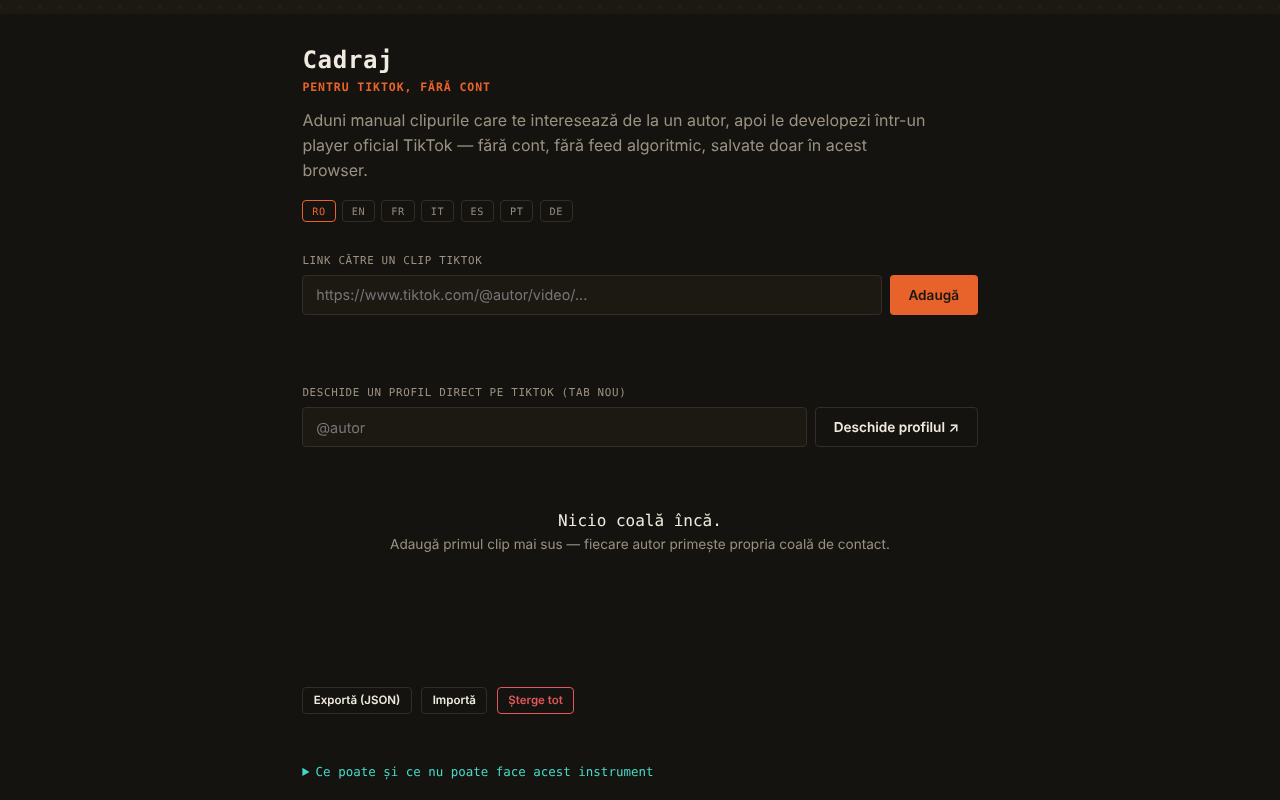
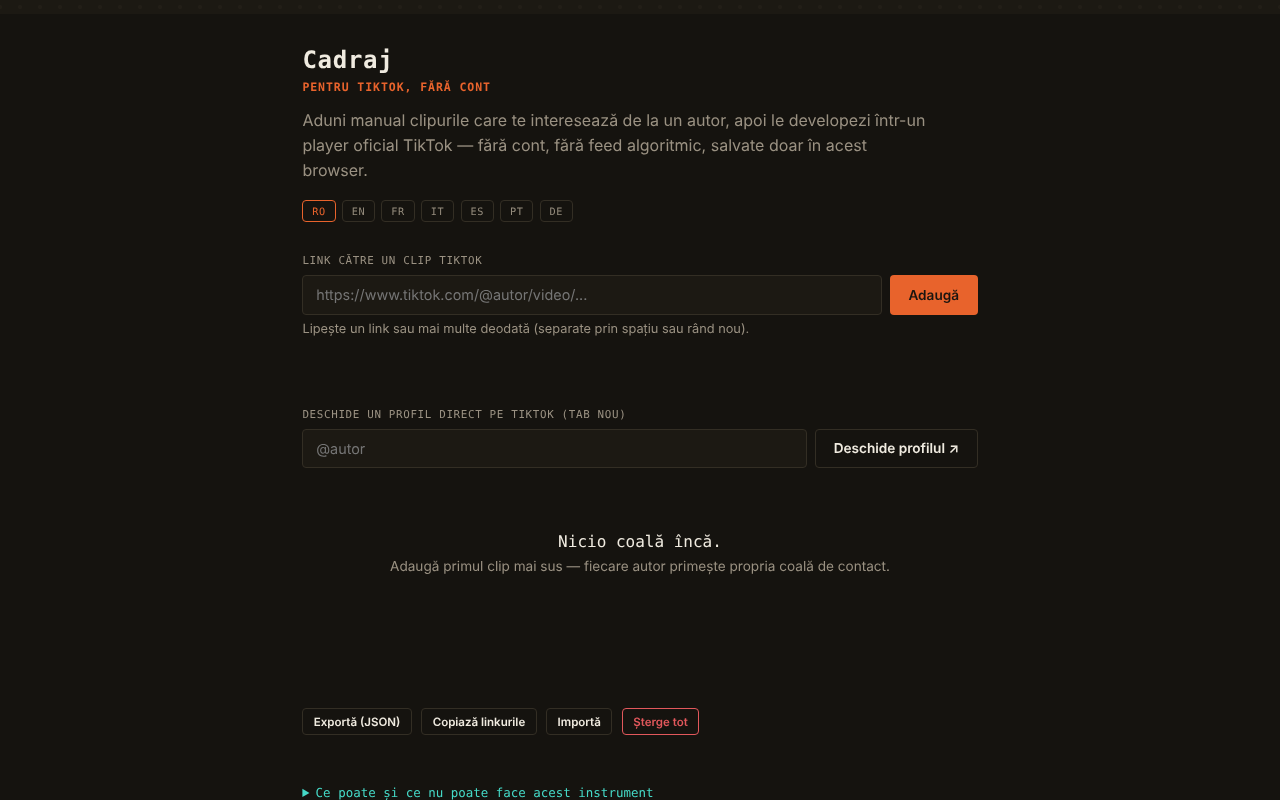
Runda 6 (11 octombrie 2026): reparații și îmbunătățiri
Claude-Session: https://claude.ai/code/session_01D2sCEb3hy3nutYexhUfQFs

diff --git a/index.html b/index.html
@@ -4,7 +4,7 @@
 <meta charset="UTF-8">
 <meta name="viewport" content="width=device-width, initial-scale=1">
 <meta name="color-scheme" content="dark">
-<meta http-equiv="Content-Security-Policy" content="default-src 'none'; script-src 'unsafe-inline'; style-src 'unsafe-inline'; img-src data: blob:; frame-src https://www.tiktok.com; connect-src 'none'; base-uri 'none'; form-action 'none'">
+<meta http-equiv="Content-Security-Policy" content="default-src 'none'; script-src 'sha256-rRifz6fCVTKQgyFeyKlWlPCwGrJVL4miG7RWZcNye4Y='; style-src 'unsafe-inline'; img-src data: blob:; frame-src https://www.tiktok.com; connect-src 'none'; base-uri 'none'; form-action 'none'">
 <title>Cadraj — pentru TikTok, fără cont</title>
 <style>
 :root{
@@ -54,6 +54,8 @@ a{ color:var(--cool); }
 .hint{ margin-top:.5rem; font-size:.8rem; min-height:1.2em; }
 .hint--error{ color:var(--danger); }
 .hint--success{ color:var(--cool); }
+.hint--tip{ color:var(--text-dim); min-height:0; margin-top:.4rem; }
+@media print{ html,body{ background:#fff; color:#000; } .panel,.tools-panel,.info-panel,.lightbox,.lang-switch,#lang-switch,.frame__remove,.collection__actions{ display:none!important; } .collection__grid{ display:block; } .frame-card{ break-inside:avoid; margin:.2rem 0; } .frame__play-area::after{ content:""; } }
 
 .btn{
   font-family:var(--sans); font-size:.85rem; font-weight:600; padding:.65rem 1.1rem;
@@ -174,6 +176,7 @@ footer.foot{ text-align:center; color:var(--text-faint); font-size:.72rem; font-
       <input type="text" id="url-input" data-i18n-placeholder="addPlaceholder" placeholder="https://www.tiktok.com/@autor/video/...">
       <button type="submit" class="btn btn-primary" data-i18n="addButton">Adaugă</button>
     </div>
+    <p class="hint hint--tip" id="add-tip" data-i18n="addTip">Lipește un link sau mai multe deodată (separate prin spațiu sau rând nou).</p>
     <p class="hint" id="add-hint" role="status" aria-live="polite"></p>
   </form>
 </section>
@@ -197,6 +200,7 @@ footer.foot{ text-align:center; color:var(--text-faint); font-size:.72rem; font-
 
 <section class="panel tools-panel">
   <button type="button" class="btn btn-secondary btn-sm" id="export-btn" data-i18n="exportButton">Exportă (JSON)</button>
+  <button type="button" class="btn btn-secondary btn-sm" id="copy-btn" data-i18n="copyButton">Copiază linkurile</button>
   <button type="button" class="btn btn-secondary btn-sm" id="import-btn" data-i18n="importButton">Importă</button>
   <input type="file" id="import-file" accept="application/json" hidden>
   <button type="button" class="btn btn-danger btn-sm" id="clear-btn" data-i18n="clearButton">Șterge tot</button>
@@ -260,6 +264,12 @@ ro: {
   hintInvalid: "Nu recunosc linkul. Are nevoie de formatul .../@autor/video/ID.",
   hintDuplicate: "Clipul e deja în colecția lui @{user}.",
   hintAdded: "Cadru adăugat la coala lui @{user}.",
+  hintBulk: "{a} clipuri adăugate, {d} erau deja în colecție, {i} linkuri ignorate (nerecunoscute sau scurtate).",
+  copyButton: "Copiază linkurile",
+  copyDone: "{n} linkuri copiate în clipboard.",
+  copyEmpty: "Nu ai încă niciun clip de copiat.",
+  copyFail: "Copierea a eșuat. Folosește „Exportă (JSON)”.",
+  addTip: "Lipește un link sau mai multe deodată (separate prin spațiu sau rând nou).",
   frameCountOne: "cadru",
   frameCountOther: "cadre",
   profileOpenButton: "Profil ↗",
@@ -310,6 +320,12 @@ en: {
   hintInvalid: "I don't recognise that link. It needs the .../@author/video/ID format.",
   hintDuplicate: "That clip is already in @{user}'s collection.",
   hintAdded: "Frame added to @{user}'s contact sheet.",
+  hintBulk: "{a} clips added, {d} were already in the collection, {i} links ignored (unrecognized or shortened).",
+  copyButton: "Copy links",
+  copyDone: "{n} links copied to the clipboard.",
+  copyEmpty: "There are no clips to copy yet.",
+  copyFail: "Copy failed. Use \"Export (JSON)\" instead.",
+  addTip: "Paste one link or several at once (separated by spaces or new lines).",
   frameCountOne: "frame",
   frameCountOther: "frames",
   profileOpenButton: "Profile ↗",
@@ -360,6 +376,12 @@ fr: {
   hintInvalid: "Je ne reconnais pas ce lien. Il doit avoir le format .../@auteur/video/ID.",
   hintDuplicate: "Ce clip est déjà dans la collection de @{user}.",
   hintAdded: "Image ajoutée à la planche contact de @{user}.",
+  hintBulk: "{a} clips ajoutés, {d} étaient déjà dans la collection, {i} liens ignorés (non reconnus ou raccourcis).",
+  copyButton: "Copier les liens",
+  copyDone: "{n} liens copiés dans le presse-papiers.",
+  copyEmpty: "Aucun clip à copier pour l'instant.",
+  copyFail: "Échec de la copie. Utilisez « Exporter (JSON) ».",
+  addTip: "Collez un lien ou plusieurs à la fois (séparés par des espaces ou des retours à la ligne).",
   frameCountOne: "image",
   frameCountOther: "images",
   profileOpenButton: "Profil ↗",
@@ -410,6 +432,12 @@ it: {
   hintInvalid: "Non riconosco questo link. Deve avere il formato .../@autore/video/ID.",
   hintDuplicate: "Questo clip è già nella collezione di @{user}.",
   hintAdded: "Fotogramma aggiunto al provino di @{user}.",
+  hintBulk: "{a} clip aggiunti, {d} erano già nella raccolta, {i} link ignorati (non riconosciuti o abbreviati).",
+  copyButton: "Copia i link",
+  copyDone: "{n} link copiati negli appunti.",
+  copyEmpty: "Nessuna clip da copiare per ora.",
+  copyFail: "Copia non riuscita. Usa «Esporta (JSON)».",
+  addTip: "Incolla un link o più link insieme (separati da spazi o a capo).",
   frameCountOne: "fotogramma",
   frameCountOther: "fotogrammi",
   profileOpenButton: "Profilo ↗",
@@ -460,6 +488,12 @@ es: {
   hintInvalid: "No reconozco ese enlace. Necesita el formato .../@autor/video/ID.",
   hintDuplicate: "Ese clip ya está en la colección de @{user}.",
   hintAdded: "Fotograma añadido a la hoja de contacto de @{user}.",
+  hintBulk: "{a} clips añadidos, {d} ya estaban en la colección, {i} enlaces ignorados (no reconocidos o acortados).",
+  copyButton: "Copiar enlaces",
+  copyDone: "{n} enlaces copiados al portapapeles.",
+  copyEmpty: "Aún no hay clips que copiar.",
+  copyFail: "Error al copiar. Usa «Exportar (JSON)».",
+  addTip: "Pega un enlace o varios a la vez (separados por espacios o saltos de línea).",
   frameCountOne: "fotograma",
   frameCountOther: "fotogramas",
   profileOpenButton: "Perfil ↗",
@@ -510,6 +544,12 @@ pt: {
   hintInvalid: "Não reconheço esse link. Ele precisa do formato .../@autor/video/ID.",
   hintDuplicate: "Esse clipe já está na coleção de @{user}.",
   hintAdded: "Quadro adicionado à folha de contato de @{user}.",
+  hintBulk: "{a} clipes adicionados, {d} já estavam na coleção, {i} links ignorados (não reconhecidos ou encurtados).",
+  copyButton: "Copiar links",
+  copyDone: "{n} links copiados para a área de transferência.",
+  copyEmpty: "Ainda não há clipes para copiar.",
+  copyFail: "Falha ao copiar. Use «Exportar (JSON)».",
+  addTip: "Cole um link ou vários de uma vez (separados por espaços ou novas linhas).",
   frameCountOne: "quadro",
   frameCountOther: "quadros",
   profileOpenButton: "Perfil ↗",
@@ -560,6 +600,12 @@ de: {
   hintInvalid: "Diesen Link erkenne ich nicht. Er braucht das Format .../@autor/video/ID.",
   hintDuplicate: "Dieser Clip ist schon in der Sammlung von @{user}.",
   hintAdded: "Bild zum Kontaktbogen von @{user} hinzugefügt.",
+  hintBulk: "{a} Clips hinzugefügt, {d} waren bereits in der Sammlung, {i} Links ignoriert (nicht erkannt oder verkürzt).",
+  copyButton: "Links kopieren",
+  copyDone: "{n} Links in die Zwischenablage kopiert.",
+  copyEmpty: "Es gibt noch keine Clips zum Kopieren.",
+  copyFail: "Kopieren fehlgeschlagen. Nutze „Exportieren (JSON)“.",
+  addTip: "Füge einen Link oder mehrere auf einmal ein (durch Leerzeichen oder Zeilenumbrüche getrennt).",
   frameCountOne: "Bild",
   frameCountOther: "Bilder",
   profileOpenButton: "Profil ↗",
@@ -973,8 +1019,22 @@ var addHint = document.getElementById('add-hint');
 function setHint(el, text, kind){ el.textContent = text; el.className = 'hint hint--'+kind; }
 addForm.addEventListener('submit', function(e){
   e.preventDefault();
-  var result = parseInput(urlInput.value);
+  var raw = urlInput.value;
+  var result = parseInput(raw);
   if(result.error === 'empty'){ setHint(addHint, t('hintEmpty'), 'error'); return; }
+  var tokens = raw.split(/[\s,;]+/).filter(Boolean);
+  if(tokens.length > 1){
+    var added = 0, dup = 0, ignored = 0, last = null;
+    tokens.forEach(function(tok){
+      var r = parseInput(tok);
+      if(r.error){ ignored++; return; }
+      if(addVideo(r.username, r.id, r.kind) === 'added'){ added++; last = r; } else { dup++; }
+    });
+    if(added === 0 && dup === 0){ setHint(addHint, t(SHORTLINK_RE.test(raw) ? 'hintShortlink' : 'hintInvalid'), 'error'); return; }
+    setHint(addHint, t('hintBulk', {a: added, d: dup, i: ignored}), added ? 'success' : 'error');
+    if(added){ urlInput.value=''; render(); }
+    return;
+  }
   if(result.error === 'shortlink'){ setHint(addHint, t('hintShortlink'), 'error'); return; }
   if(result.error === 'invalid'){ setHint(addHint, t('hintInvalid'), 'error'); return; }
   var outcome = addVideo(result.username, result.id, result.kind);
@@ -1000,6 +1060,20 @@ document.getElementById('export-btn').addEventListener('click', function(){
   a.href = url; a.download = 'tiktok-fara-cont.json';
   document.body.appendChild(a); a.click(); document.body.removeChild(a);
   setTimeout(function(){ URL.revokeObjectURL(url); }, 4000);
+});
+document.getElementById('copy-btn').addEventListener('click', function(){
+  var lines = [];
+  orderedCollections().forEach(function(c){ c.data.videos.forEach(function(v){
+    lines.push('https://www.tiktok.com/@'+c.username+'/'+(v.kind === 'photo' ? 'photo' : 'video')+'/'+v.id);
+  }); });
+  if(!lines.length){ setHint(addHint, t('copyEmpty'), 'error'); return; }
+  var text = lines.join('\n');
+  function ok(){ setHint(addHint, t('copyDone', {n: lines.length}), 'success'); }
+  function fail(){ setHint(addHint, t('copyFail'), 'error'); }
+  try {
+    if(navigator.clipboard && navigator.clipboard.writeText){ navigator.clipboard.writeText(text).then(ok, fail); return; }
+  } catch(err){ /* fall through */ }
+  fail();
 });
 var importFile = document.getElementById('import-file');
 document.getElementById('import-btn').addEventListener('click', function(){ importFile.click(); });

diff --git a/README.md b/README.md
@@ -14,7 +14,9 @@ Cadraj este o aplicație dintr-un singur fișier HTML în care adaugi manual lin
 
 ## Funcții
 
-- Adăugare clip după link (`https://www.tiktok.com/@autor/video/...`), cu mesaj de stare.
+- Adăugare clip după link (`https://www.tiktok.com/@autor/video/...`), cu mesaj de stare; poți lipi mai multe linkuri deodată (separate prin spațiu, virgulă sau rând nou) — rezumatul spune câte au fost adăugate, câte erau deja în colecție și câte au fost ignorate.
+- „Copiază linkurile”: toate linkurile din colecție, câte unul pe rând, în clipboard.
+- Stil de tipărire: se tipărește doar lista de colecții.
 - Colecții pe autor, cu notiță text pentru fiecare clip.
 - Deschiderea unui profil TikTok într-un tab nou (câmpul „@autor", butonul „Deschide profilul ↗").
 - Căutare în colecții (după autor sau cuvinte din notițe).
@@ -49,6 +51,10 @@ Licența nu este încă declarată explicit în acest repository; vezi nota din 
 
 ## Istoric / Changelog
 
+### 11 octombrie 2026 (runda 6)
+- Adăugat: adăugare în masă de linkuri, butonul „Copiază linkurile”, stil de tipărire, mesaje noi în 7 limbi.
+- Securitate: CSP cu `script-src` pe hash (fără `'unsafe-inline'` pentru script).
+
 ### 11 octombrie 2026
 - Adăugat: atribut `sandbox` pe iframe-ul playerului TikTok și politică CSP (frame-src doar `www.tiktok.com`, fără connect-src).
 - Adăugat: mesaj clar în vizualizare când browserul e offline (în loc de un cadru gol), în toate cele 7 limbi.
@@ -60,7 +66,7 @@ Alexio — Alexandru-Ionuț Chiuță, contact: alexio@trom.tf
 
 ## English summary
 
-Cadraj is a single-file HTML tool for building a personal contact sheet of TikTok clips you add manually by link, grouped per author, played through TikTok's official embed player, with notes, search, lightbox, and JSON export/import. Data stays in localStorage; playback loads tiktok.com in an iframe, so it needs internet. 7 UI languages. It does not scrape profiles or download videos.
+Cadraj is a single-file HTML tool for building a personal contact sheet of TikTok clips you add manually by link, grouped per author, played through TikTok's official embed player, with notes, search, lightbox, bulk link paste, copy-all-links, and JSON export/import. Data stays in localStorage; playback loads tiktok.com in an iframe, so it needs internet. 7 UI languages. It does not scrape profiles or download videos.
 
 ## Audit
 
